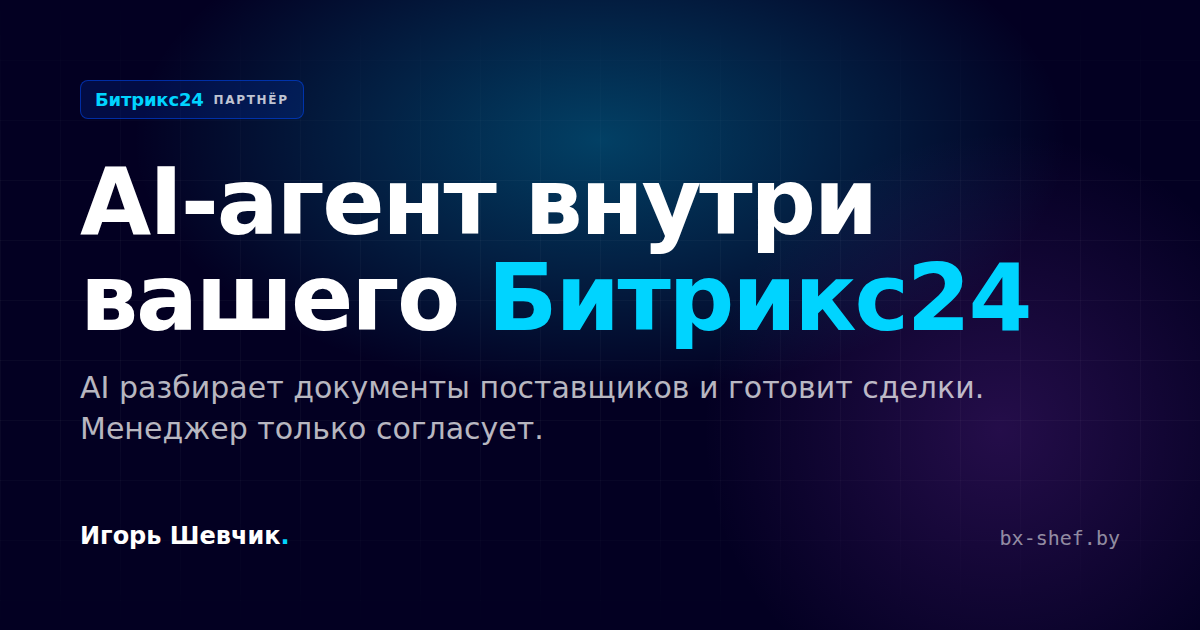
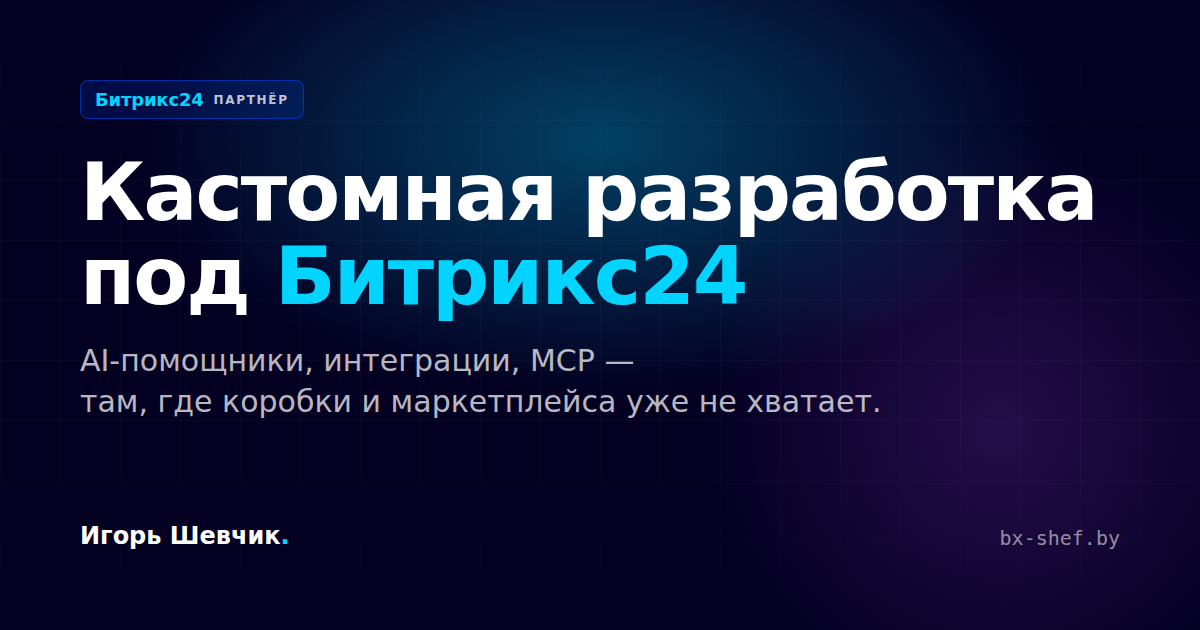
landing: v5 УТП-сдвиг на сервисный нарратив
УТП:
- h1: «Кастомная разработка под Битрикс24»
- subtitle: «AI-помощники, интеграции, MCP — там, где
  коробки и маркетплейса уже не хватает.»

Карточки услуг (короткий формат, никто не читает длинное):
- 4 направления в ряд (1/2/4 cols), каждая — название + 2 строки
- AI-помощник в Битрикс24
- AI для продажников (новое — карточка сделки, скрипты)
- Генерация и сборка контента
- Интеграции и обмен данными

Удалена секция «Как это работает» (продуктовая, не сервисная).
«Как мы работаем» переименована в «Процесс заказа разработки».

SEO/OG обновлены под новый h1 и подзаголовок.

https://claude.ai/code/session_016R4MEyXtschYf8v2t5eZ1a

Changed region(s): [[0.0617, 0.2413, 0.925, 0.7238]]

diff --git a/app/pages/index.vue b/app/pages/index.vue
@@ -1,69 +1,62 @@
 <script setup lang="ts">
 import ArrowRightLIcon from '@bitrix24/b24icons-vue/outline/ArrowRightLIcon'
-import FileIcon from '@bitrix24/b24icons-vue/outline/FileIcon'
-import RobotIcon from '@bitrix24/b24icons-vue/main/RobotIcon'
-import CircleCheckIcon from '@bitrix24/b24icons-vue/outline/CircleCheckIcon'
-import ChatsIcon from '@bitrix24/b24icons-vue/outline/ChatsIcon'
-import AiStarsIcon from '@bitrix24/b24icons-vue/outline/AiStarsIcon'
-import IdeaLampIcon from '@bitrix24/b24icons-vue/outline/IdeaLampIcon'
-import RocketIcon from '@bitrix24/b24icons-vue/main/RocketIcon'
+import CopilotAi1Icon from '@bitrix24/b24icons-vue/main/CopilotAi1Icon'
+import MagicImageIcon from '@bitrix24/b24icons-vue/main/MagicImageIcon'
+import CloudTransferDataIcon from '@bitrix24/b24icons-vue/main/CloudTransferDataIcon'
+import FunnelIcon from '@bitrix24/b24icons-vue/main/FunnelIcon'
 import CodeIcon from '@bitrix24/b24icons-vue/common-service/CodeIcon'
+import RocketIcon from '@bitrix24/b24icons-vue/main/RocketIcon'
 import ShieldCheckedIcon from '@bitrix24/b24icons-vue/outline/ShieldCheckedIcon'
 
 useCardGlow()
 
-const processSteps = [
-  { icon: FileIcon, title: '1. Вход', text: 'Письмо от поставщика, скан документа, идея кампании, вопрос сотрудника. Любой неструктурированный поток.' },
-  { icon: RobotIcon, title: '2. AI-агент разбирает', text: 'Читает файл, ищет товары в каталоге, сверяет цены, помечает проблемы. На вашем стеке: Битрикс24 + MCP.' },
-  { icon: ChatsIcon, title: '3. Готовая карточка в Битрикс24', text: 'Менеджер открывает Smart-процесс, видит черновик решения и список проблем — каждая с пояснением.' },
-  { icon: CircleCheckIcon, title: '4. Согласовал — исполнилось', text: 'Сделка создана, товар опубликован, ответ отправлен. Без копипаста и переноса вручную.' }
-]
-
-const cases = [
+const services = [
   {
-    title: 'Входящие КП от поставщиков',
-    text: 'Поставщик прислал Excel или PDF. Агент находит товары в вашем каталоге, сверяет цены с историей, отмечает новые позиции и аномалии. Менеджер открывает готовую сделку.',
-    goal: 'Цель пилота: < 10 минут на КП вместо часа. Замеряем на ваших данных.',
-    status: 'проработан, готов к пилоту',
-    statusKey: 'success',
-    icon: CircleCheckIcon
+    icon: CopilotAi1Icon,
+    title: 'AI-помощник в Битрикс24',
+    text: 'Чат к базе знаний, ответы сотрудникам, подсказки в задачах и сделках. Видит ваши данные прямо в Б24.'
   },
   {
-    title: 'Сборка комплектов в каталоге',
-    text: 'Тренд или сезонная идея → агент собирает образ из товаров каталога, генерирует hero-картинку через Gemini, готовит карточку «комплект» для публикации.',
-    goal: 'Рабочий прототип на каталоге fashion-ритейлера. Пилот в стадии согласования.',
-    status: 'прототип, идёт пилот',
-    statusKey: 'warning',
-    icon: IdeaLampIcon
+    icon: FunnelIcon,
+    title: 'AI для продажников',
+    text: 'В карточке сделки: следующий шаг, ответ на возражение, скрипт звонка, краткое саммари переписки.'
   },
   {
-    title: 'Чат с корпоративными данными',
-    text: 'Сотрудник спрашивает в Битрикс24 «какие условия по поставщику X?» — агент ищет в документах, регламентах, прошлых сделках и отвечает со ссылкой на источник.',
-    goal: 'Архитектура продумана. Реализация — после первого клиента, который запросит.',
-    status: 'в очереди',
-    statusKey: 'neutral',
-    icon: AiStarsIcon
+    icon: MagicImageIcon,
+    title: 'Генерация и сборка контента',
+    text: 'Каталог Б24 + AI-генератор изображений → готовые комплекты и hero-картинки для публикации.'
+  },
+  {
+    icon: CloudTransferDataIcon,
+    title: 'Интеграции и обмен данными',
+    text: 'Клиент-банк, поставщики, маркетплейсы, любой SaaS через REST/MCP ↔ Б24. Без копипаста и Excel.'
   }
 ]
 
-const stages = [
-  { week: 'Этап 1', title: 'Discovery', text: '5 ключевых вопросов: объём, форматы, доступы, кто оператор, можно ли в облачную LLM' },
-  { week: 'Этап 2', title: 'Парсинг и матчинг', text: 'Скрипт на реальных данных вашей задачи. Точность — на размеченных примерах' },
-  { week: 'Этап 3', title: 'Карточка в Б24', text: 'Smart-процесс, две корзины «принять/посмотреть», триггеры на исполнение' },
-  { week: 'Этап 4', title: 'Прогон с оператором', text: 'Метрики на реальных задачах. Решение: production, коррекция или стоп' }
+const differentiators = [
+  {
+    icon: CodeIcon,
+    title: 'Контрибьютор в SDK Битрикс24',
+    text: 'b24jssdk и b24ui — это код, который я знаю изнутри, а не по документации. Меньше времени на «разобраться», больше на «сделать».'
+  },
+  {
+    icon: RocketIcon,
+    title: 'Специализация на AI и интеграциях',
+    text: 'Не комплексное внедрение Б24 «с нуля». Захожу туда, где базовый интегратор уже сказал «это не делается».'
+  },
+  {
+    icon: ShieldCheckedIcon,
+    title: 'Работаю один — отвечаю за результат',
+    text: 'Между вами и разработчиком нет менеджеров, проектировщиков и «команды на стороне». Что обсудили — то и получите.'
+  }
 ]
 
-const author = [
-  { icon: CodeIcon, title: 'Контрибьютор в SDK Битрикс24', text: 'Открытые библиотеки b24jssdk и b24ui — это код, который я знаю изнутри, а не по документации.' },
-  { icon: RocketIcon, title: 'MCP-шаблон под Битрикс24', text: 'Делаю собственный фундамент для AI-агентов, работающих с Битрикс24. На нём строится этот подход.' },
-  { icon: ShieldCheckedIcon, title: 'Партнёр Битрикс24', text: 'Работаю по правилам брендбука и в рамках партнёрской программы. Все цены и сроки — прозрачно.' }
+const process = [
+  { step: '01', title: 'Discovery', text: '30-минутный созвон + 5 ключевых вопросов. Бесплатно. По итогу — оценка и решение, идём или нет.' },
+  { step: '02', title: 'Оценка', text: 'Фиксированная цена за этап или почасовая ставка. Никаких «уточним по ходу».' },
+  { step: '03', title: 'Разработка', text: 'Каждые 1–2 недели демо. Право остановить в любой момент — оплачиваете только сделанное.' },
+  { step: '04', title: 'Поддержка', text: 'После запуска — почасовая или фиксированная подписка. По вашему выбору, без обязательств.' }
 ]
-
-function statusClass(k: string) {
-  if (k === 'success') return 'bg-[rgb(var(--color-accent-success-ch)/0.15)] text-[rgb(var(--color-accent-success-ch))] border-[rgb(var(--color-accent-success-ch)/0.3)]'
-  if (k === 'warning') return 'bg-[rgb(var(--color-accent-warning-ch)/0.15)] text-[rgb(var(--color-accent-warning-ch))] border-[rgb(var(--color-accent-warning-ch)/0.3)]'
-  return 'bg-white/5 text-white/60 border-white/15'
-}
 </script>
 
 <template>
@@ -74,17 +67,17 @@ function statusClass(k: string) {
         <PartnerBadge />
 
         <h1 class="sm:text-center text-5xl sm:text-7xl font-bold leading-[1.05] tracking-tight text-white">
-          AI-агент внутри<br>вашего <span class="text-[rgb(var(--color-accent-primary-ch))]">Битрикс24</span>
+          Кастомная разработка<br>под <span class="text-[rgb(var(--color-accent-primary-ch))]">Битрикс24</span>
         </h1>
 
-        <p class="sm:text-center text-lg sm:text-2xl max-w-[760px] text-white/70 leading-relaxed">
-          Поставщик прислал Excel — менеджер открывает в Битрикс24 готовую сделку
-          с подсвеченными проблемами. <span class="text-white">Без копипаста и переноса вручную.</span>
+        <p class="sm:text-center text-lg sm:text-2xl max-w-[820px] text-white/70 leading-relaxed">
+          AI-помощники, интеграции, MCP —
+          <span class="text-white">там, где коробки и маркетплейса уже не хватает.</span>
         </p>
 
         <div class="mt-4 flex flex-wrap items-center gap-3">
           <B24Button
-            label="Получить оценку задачи"
+            label="Обсудить задачу"
             to="#brief"
             color="air-primary"
             size="xl"
@@ -94,14 +87,14 @@ function statusClass(k: string) {
             </template>
           </B24Button>
           <B24Button
-            label="Как это работает"
-            to="#how"
+            label="Что я делаю"
+            to="#services"
             color="air-secondary-no-accent"
             size="xl"
           />
         </div>
 
-        <!-- Tech-партнёры. Положите /public/logos/claude.svg и openai.svg чтобы заменить текст. -->
+        <!-- Tech-стек -->
         <div class="mt-12 sm:mt-16 flex flex-col items-start sm:items-center gap-3">
           <div class="text-xs uppercase tracking-[0.18em] text-white/40 font-mono">
             Работает с моделями
@@ -117,145 +110,98 @@ function statusClass(k: string) {
       </div>
     </section>
 
-    <!-- ПРОЦЕСС -->
-    <section id="how" class="px-[22px] lg:px-8 py-[64px] sm:py-[108px]">
+    <!-- НАПРАВЛЕНИЯ УСЛУГ -->
+    <section id="services" class="px-[22px] lg:px-8 py-[64px] sm:py-[108px]">
       <div class="max-w-[1200px] mx-auto">
-        <div class="max-w-[680px] mb-12">
+        <div class="max-w-[720px] mb-12 sm:mb-16">
           <h2 class="text-3xl sm:text-5xl font-bold tracking-tight text-white mb-4">
-            Как это работает
+            Что я делаю
           </h2>
           <p class="text-lg text-white/65">
-            Один маршрут на разные входы. Финальное «да» всегда остаётся за человеком —
-            в той же карточке Битрикс24, где он уже работает каждый день.
+            Три направления разработки. Один разработчик, прозрачные сроки, опыт работы с открытыми библиотеками Битрикс24.
           </p>
         </div>
 
         <div class="grid grid-cols-1 sm:grid-cols-2 lg:grid-cols-4 gap-4">
           <div
-            v-for="(s, i) in processSteps"
+            v-for="(s, i) in services"
             :key="i"
             data-glow-card
-            class="rounded-2xl border border-white/10 bg-white/[0.03] p-6 hover:border-white/20 transition-colors"
-          >
-            <div class="inline-flex items-center justify-center size-11 rounded-xl bg-[rgb(var(--color-accent-primary-ch)/0.15)] text-[rgb(var(--color-accent-primary-ch))] mb-4">
-              <component :is="s.icon" class="size-5" />
-            </div>
-            <div class="font-bold text-white text-lg mb-2">
-              {{ s.title }}
-            </div>
-            <div class="text-sm text-white/60 leading-relaxed">
-              {{ s.text }}
-            </div>
-          </div>
-        </div>
-      </div>
-    </section>
-
-    <!-- КЕЙСЫ -->
-    <section class="px-[22px] lg:px-8 py-[64px] sm:py-[108px]">
-      <div class="max-w-[1200px] mx-auto">
-        <div class="max-w-[680px] mb-12">
-          <h2 class="text-3xl sm:text-5xl font-bold tracking-tight text-white mb-4">
-            Три задачи, под которые сделан подход
-          </h2>
-          <p class="text-lg text-white/65">
-            Один метод, три применения. Прямо сейчас глубоко проработан первый,
-            второй — рабочий прототип, третий — следующий в очереди. Без вранья.
-          </p>
-        </div>
-
-        <div class="grid grid-cols-1 md:grid-cols-3 gap-5">
-          <div
-            v-for="(c, i) in cases"
-            :key="i"
-            data-glow-card
-            class="rounded-2xl border border-white/10 bg-white/[0.03] p-7 flex flex-col gap-4 hover:border-white/25 transition-colors"
+            class="rounded-2xl border border-white/10 bg-white/[0.03] p-6 flex flex-col gap-4 hover:border-white/25 transition-colors"
           >
             <div class="inline-flex items-center justify-center size-11 rounded-xl bg-[rgb(var(--color-accent-primary-ch)/0.15)] text-[rgb(var(--color-accent-primary-ch))]">
-              <component :is="c.icon" class="size-5" />
+              <component :is="s.icon" class="size-5" />
             </div>
-            <h3 class="text-xl font-bold text-white">
-              {{ c.title }}
+            <h3 class="text-lg font-bold text-white leading-tight">
+              {{ s.title }}
             </h3>
-            <p class="text-sm text-white/65 leading-relaxed flex-1">
-              {{ c.text }}
+            <p class="text-sm text-white/65 leading-relaxed">
+              {{ s.text }}
             </p>
-            <div class="border-t border-white/10 pt-4 flex flex-col gap-3">
-              <span class="text-sm text-white/60">{{ c.goal }}</span>
-              <span
-                class="inline-flex w-fit items-center gap-1.5 px-2.5 py-1 rounded-full text-xs font-semibold border"
-                :class="statusClass(c.statusKey)"
-              >
-                {{ c.status }}
-              </span>
-            </div>
           </div>
         </div>
       </div>
     </section>
 
-    <!-- ОБ АВТОРЕ -->
+    <!-- ЧЕМ ОТЛИЧАЮСЬ -->
     <section class="px-[22px] lg:px-8 py-[64px] sm:py-[108px]">
       <div class="max-w-[1200px] mx-auto">
-        <div class="max-w-[680px] mb-12">
+        <div class="max-w-[720px] mb-12 sm:mb-16">
           <h2 class="text-3xl sm:text-5xl font-bold tracking-tight text-white mb-4">
-            Кто это делает
+            Чем отличаюсь от типового интегратора
           </h2>
           <p class="text-lg text-white/65">
-            Игорь Шевчик — разработчик из Амстердама. Делаю инструменты для платформы
-            Битрикс24 и для бизнесов, которые на ней работают.
+            Не делаю комплексное внедрение Битрикс24. Делаю нестандартные задачи поверх него.
           </p>
         </div>
 
         <div class="grid grid-cols-1 sm:grid-cols-3 gap-5">
           <div
-            v-for="(a, i) in author"
+            v-for="(d, i) in differentiators"
             :key="i"
             data-glow-card
             class="rounded-2xl border border-white/10 bg-white/[0.03] p-6"
           >
             <div class="inline-flex items-center justify-center size-11 rounded-xl bg-[rgb(var(--color-accent-partner-ch)/0.18)] text-[rgb(var(--color-accent-partner-ch))] mb-4">
-              <component :is="a.icon" class="size-5" />
+              <component :is="d.icon" class="size-5" />
             </div>
-            <div class="font-bold text-white mb-2">
-              {{ a.title }}
+            <div class="font-bold text-white mb-2 text-lg">
+              {{ d.title }}
             </div>
             <div class="text-sm text-white/60 leading-relaxed">
-              {{ a.text }}
+              {{ d.text }}
             </div>
           </div>
         </div>
       </div>
     </section>
 
-    <!-- ФОРМАТ РАБОТЫ -->
+    <!-- ПРОЦЕСС ЗАКАЗА -->
     <section class="px-[22px] lg:px-8 py-[64px] sm:py-[108px]">
       <div class="max-w-[1200px] mx-auto">
-        <div class="max-w-[680px] mb-12">
+        <div class="max-w-[720px] mb-12 sm:mb-16">
           <h2 class="text-3xl sm:text-5xl font-bold tracking-tight text-white mb-4">
-            Формат работы
+            Процесс заказа разработки
           </h2>
           <p class="text-lg text-white/65">
-            4–8 недель до работающего пилота — в зависимости от объёма данных и
-            согласований доступов. После каждого этапа — точка решения.
-            <span class="text-white">Без предоплаты, которую невозможно отбить.</span>
+            Прозрачные этапы. Без предоплаты, которую невозможно отбить, и без «уточним по ходу» в смете.
           </p>
         </div>
 
         <div class="grid grid-cols-1 sm:grid-cols-2 lg:grid-cols-4 gap-4">
           <div
-            v-for="(s, i) in stages"
+            v-for="(p, i) in process"
             :key="i"
             class="rounded-2xl border border-white/10 bg-white/[0.03] p-6"
           >
-            <div class="text-xs font-mono font-semibold uppercase tracking-[0.14em] text-[rgb(var(--color-accent-primary-ch))] mb-2">
-              {{ s.week }}
+            <div class="text-3xl font-bold font-mono text-[rgb(var(--color-accent-primary-ch))] mb-3 leading-none">
+              {{ p.step }}
             </div>
             <div class="font-bold text-lg text-white mb-2">
-              {{ s.title }}
+              {{ p.title }}
             </div>
             <div class="text-sm text-white/60 leading-relaxed">
-              {{ s.text }}
+              {{ p.text }}
             </div>
           </div>
         </div>
@@ -267,11 +213,11 @@ function statusClass(k: string) {
       <div class="max-w-[900px] mx-auto">
         <div class="rounded-3xl border border-white/10 bg-gradient-to-br from-[rgb(var(--color-accent-partner-ch)/0.15)] to-[rgb(var(--color-accent-special-ch)/0.08)] p-8 sm:p-12">
           <h2 class="text-3xl sm:text-5xl font-bold tracking-tight text-white mb-4">
-            Расскажите о задаче
+            Обсудим вашу задачу
           </h2>
           <p class="text-lg text-white/70 mb-8">
-            Прочитаю и отвечу в течение рабочего дня. Бюджет и сроки обсудим в созвоне —
-            заранее в форму их не вгоняю, чтобы не якорить разговор раньше времени.
+            Прочитаю и отвечу в течение рабочего дня. На созвоне за 30 минут разберёмся,
+            можно ли это сделать вообще, и если да — за сколько и в какие сроки.
           </p>
           <BriefForm />
         </div>

diff --git a/app/app.vue b/app/app.vue
@@ -5,8 +5,8 @@ import TelegramIcon from '@bitrix24/b24icons-vue/outline/TelegramIcon'
 
 const config = useRuntimeConfig()
 
-const title = 'AI-агент внутри вашего Битрикс24 — Игорь Шевчик'
-const description = 'AI разбирает документы поставщиков и готовит сделки в Битрикс24. Менеджер только согласует.'
+const title = 'Кастомная разработка под Битрикс24 — AI, интеграции, MCP — Игорь Шевчик'
+const description = 'AI-помощники, интеграции с внешними системами, MCP-серверы для Битрикс24. Там, где коробки и маркетплейса уже не хватает.'
 const ogImage = `${config.public.siteUrl}/og-image.png`
 
 useSeoMeta({
